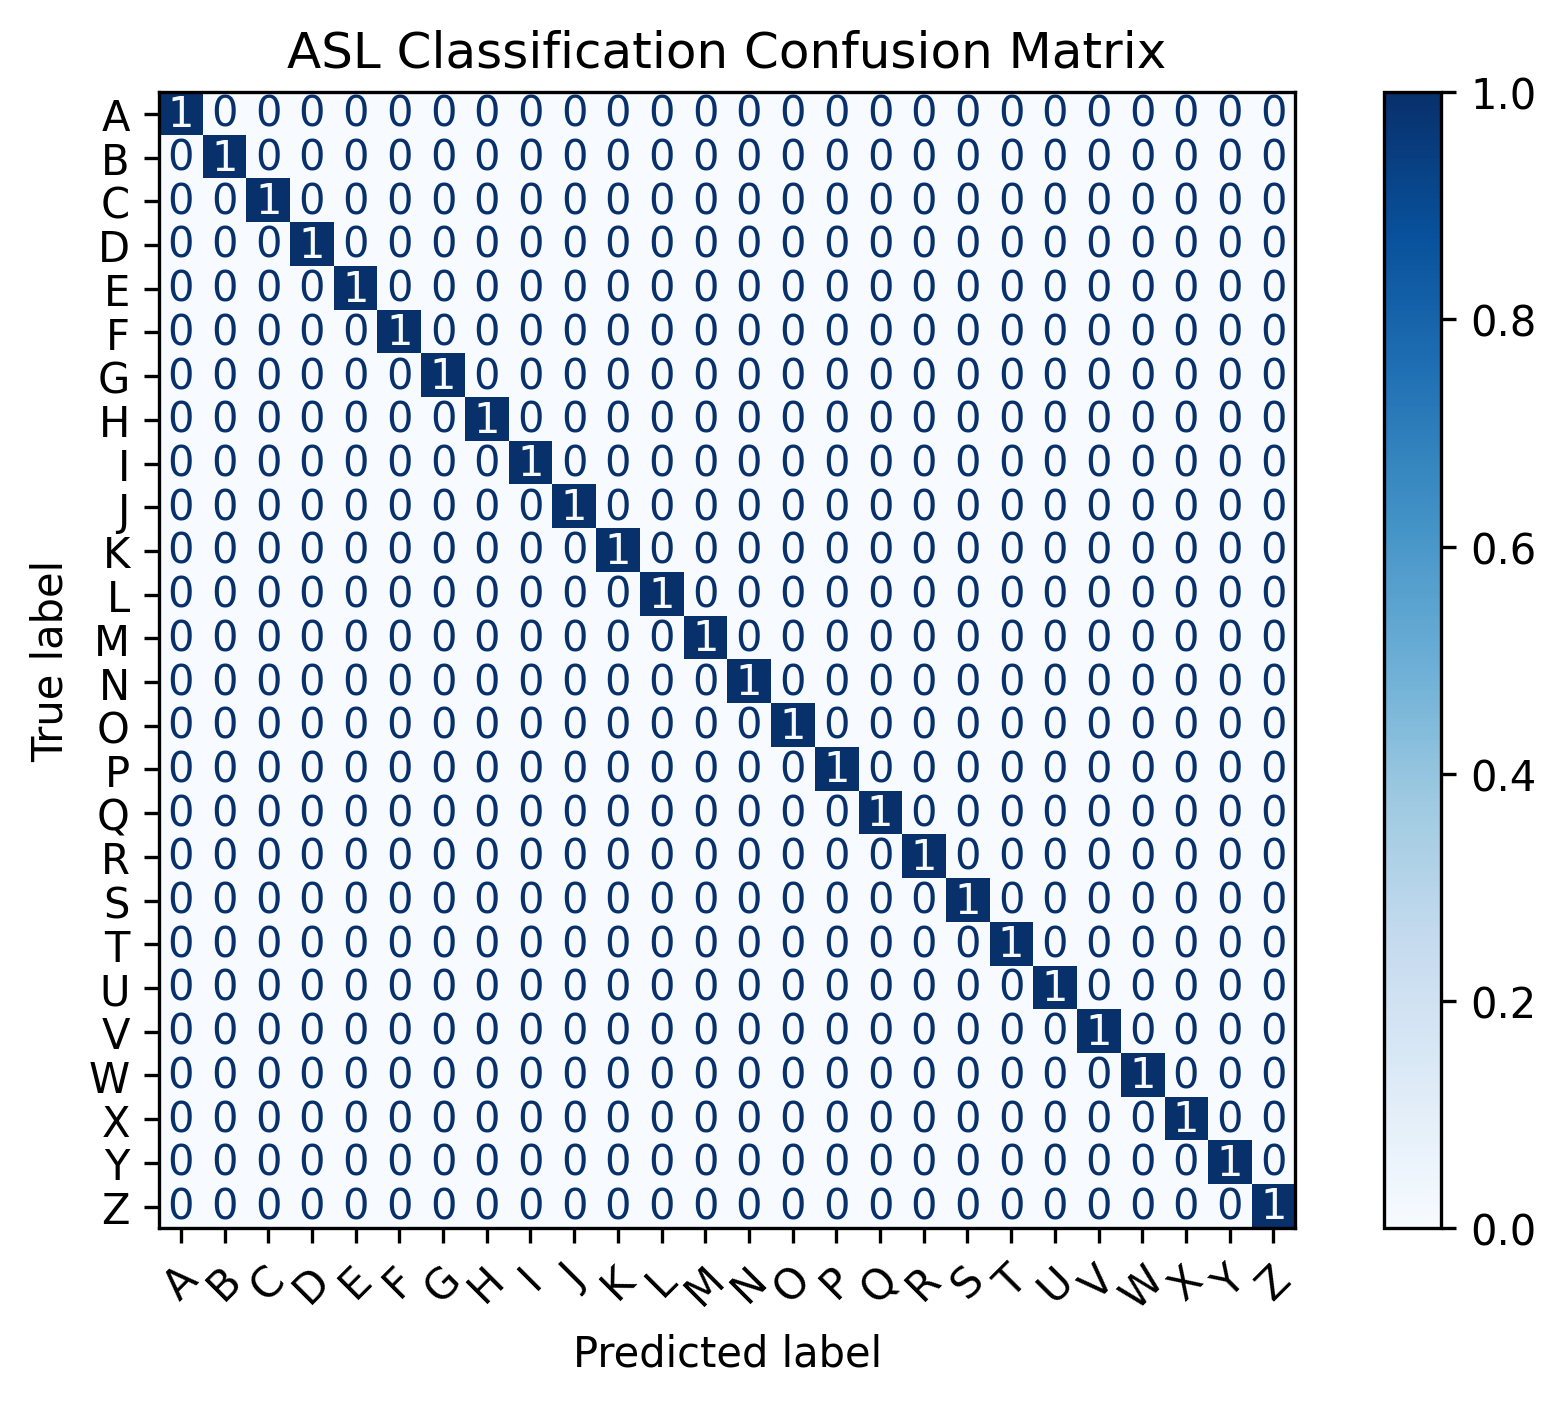
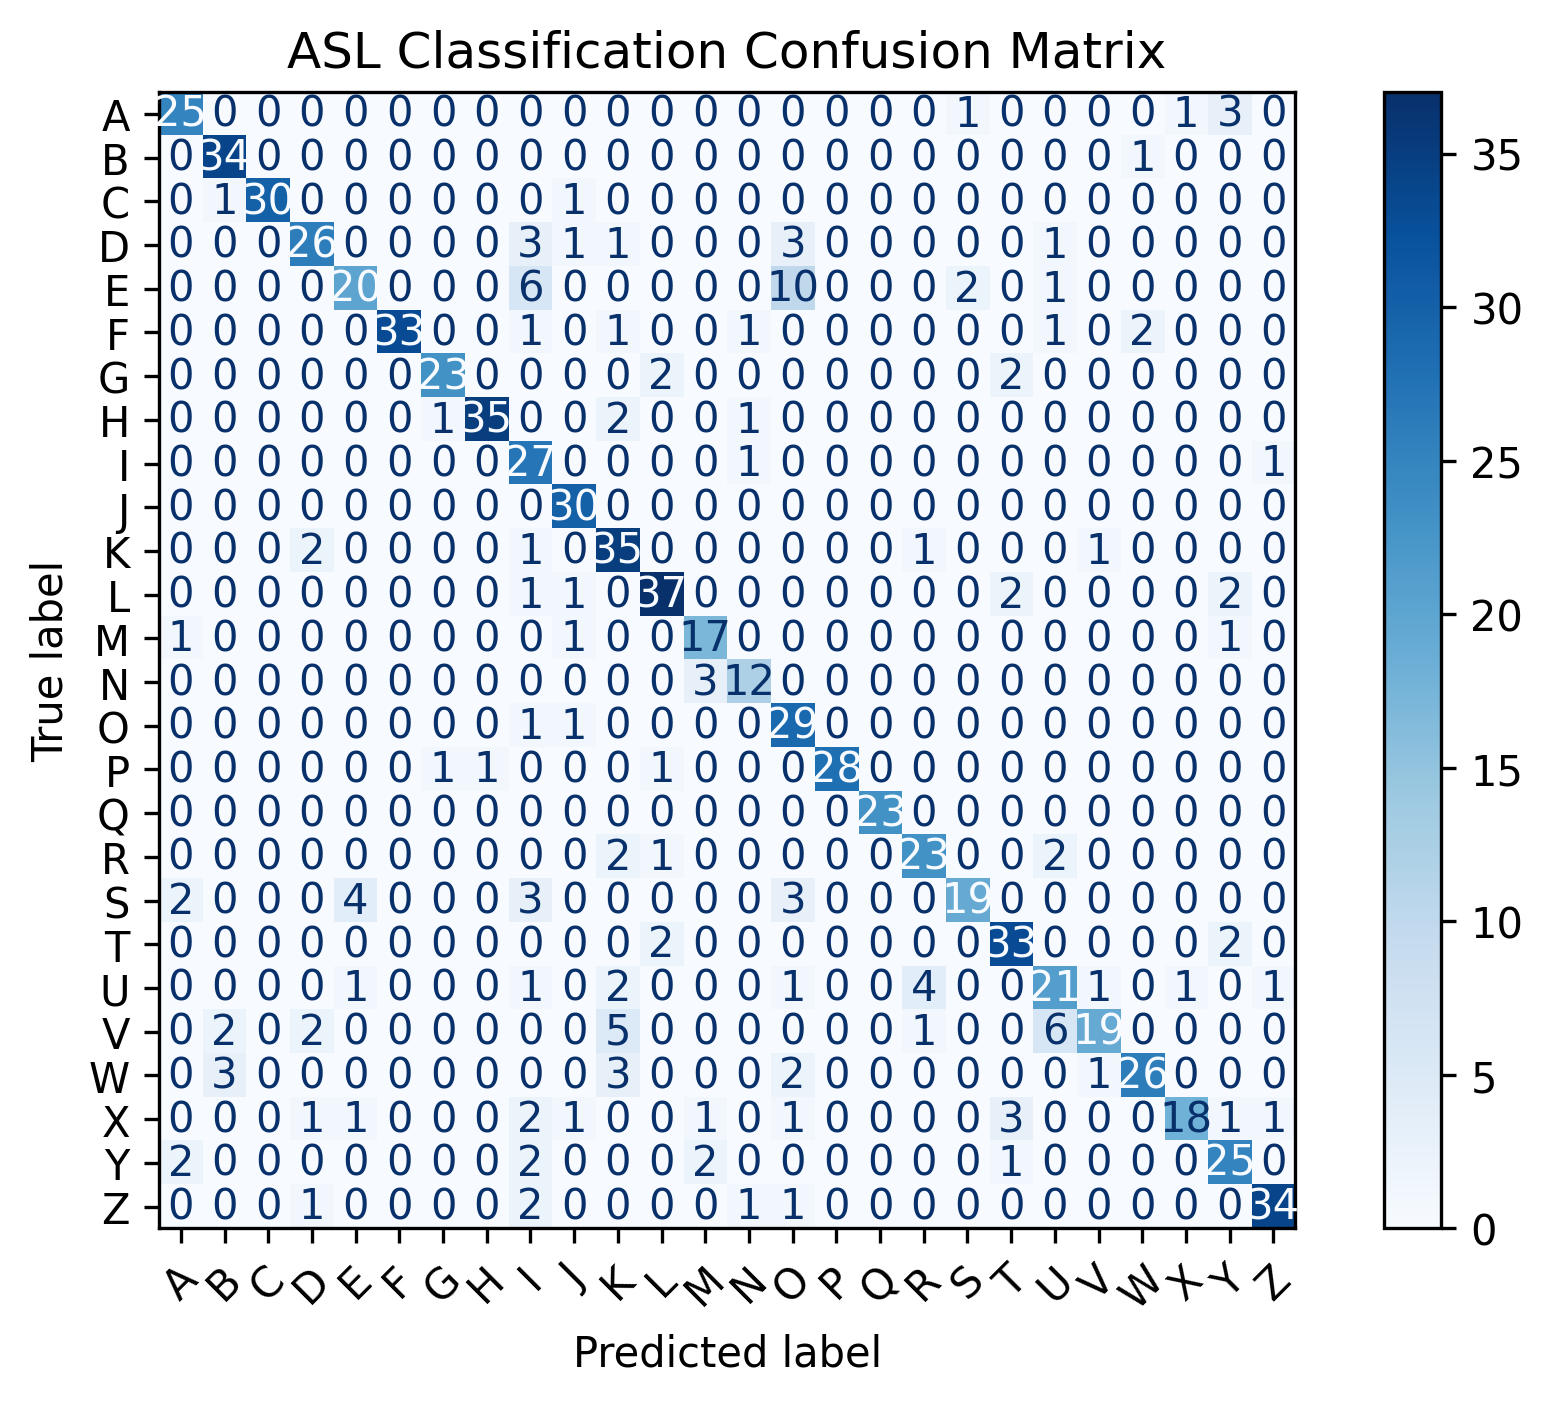
Added some files to create test sets and for the testing of model + new confusion matrix

Changed region(s): [[0.0618, 0.0, 0.8345, 0.9794], [0.8654, 0.0612, 0.9891, 0.8875], [0.9272, 0.8569, 0.9891, 0.8875]]

diff --git a/Backend/scripts/_test_from_data.py b/Backend/scripts/_test_from_data.py
@@ -8,19 +8,17 @@ import matplotlib.pyplot as plt
 
 LABELS_FULL = [
     "A", "B", "C", "D", "E", "F", "G", "H", "I", "J", "K", "L", "M", 
-    "N", "O", "P", "Q", "R", "S", "T", "U", "V", "W", "X", "Y", "Z"
+    "N", "O", "P", "Q", "R", "S", "T", "U", "V", "W", "X", "Y", "Z",
+    "space", "del", "nothing"
 ]
 
-# Initialize components
 detector = HandDetector(maxHands=1)
 classifier = Classifier("./backend/model/asl_model_augmented_1.keras") 
 
-# Test folder configuration
-test_folder = "E:/DataSets/dataset 2 ASL/asl_alphabet_test"
+test_folder = "E:/DataSets/dataset 2 ASL/asl_alphabet_train/TEST 2"
 offset = 25
 img_size = 200
 
-# Storage for metrics
 true_labels = []
 predicted_labels = []
 failed_images = []
@@ -28,7 +26,7 @@ failed_images = []
 def get_true_label(filename):
     return filename.split('_')[0].upper()
 
-# Process test images
+# Process test images from the directory
 for filename in os.listdir(test_folder):
     if not filename.lower().endswith(('.png', '.jpg', '.jpeg', '.bmp', '.gif')):
         continue
@@ -51,7 +49,6 @@ for filename in os.listdir(test_folder):
             hand = hands[0]
             x, y, w, h = hand['bbox']
             
-            # Safe cropping
             y1 = max(0, y - offset)
             y2 = min(img.shape[0], y + h + offset)
             x1 = max(0, x - offset)
@@ -65,7 +62,6 @@ for filename in os.listdir(test_folder):
                 prediction = classifier.model.predict(np.expand_dims(keypoints, axis=0), verbose=0)[0]
                 predicted_index = np.argmax(prediction)
                 
-                # Store for metrics
                 true_labels.append(LABELS_FULL.index(true_label))
                 predicted_labels.append(predicted_index)
         else:
@@ -73,6 +69,7 @@ for filename in os.listdir(test_folder):
     except Exception as e:
         print(f"Error processing {filename}: {str(e)}")
         failed_images.append(filename)
+
 
 # Performance Metrics
 if len(true_labels) == 0:

diff --git a/Backend/scripts/_create_test_set.py b/Backend/scripts/_create_test_set.py
@@ -1,0 +1,45 @@
+import os
+import random
+import shutil
+from pathlib import Path
+
+def select_test_images(main_folder_path, output_folder='TEST 2', samples_per_class=50):
+    classes = [
+        "A", "B", "C", "D", "E", "F", "G", "H", "I", "J", "K", "L", "M",
+        "N", "O", "P", "Q", "R", "S", "T", "U", "V", "W", "X", "Y", "Z",
+        "space", "del" 
+    ]
+    
+    # Create output folder if it doesn't exist
+    output_path = Path(main_folder_path).parent / output_folder
+    output_path.mkdir(exist_ok=True)
+    
+    # Process each class folder
+    for class_name in classes:
+        class_path = Path(main_folder_path) / class_name
+        
+        if not class_path.exists():
+            print(f"Warning: Folder '{class_name}' not found in main directory")
+            continue
+            
+        image_files = [f for f in class_path.iterdir() if f.is_file()]
+        
+        if len(image_files) < samples_per_class:
+            print(f"Warning: Not enough images in '{class_name}' folder (has {len(image_files)}, needs {samples_per_class})")
+            continue
+            
+        selected_images = random.sample(image_files, samples_per_class)
+        
+        for i, image_path in enumerate(selected_images, start=1):
+            new_name = f"{class_name}_{i}{image_path.suffix}"
+            shutil.copy2(image_path, output_path / new_name)
+    
+    print(f"Successfully copied {samples_per_class} images from each class to '{output_path}'")
+
+if __name__ == "__main__":
+    main_folder = r"E:/DataSets/dataset 2 ASL/asl_alphabet_train/asl_alphabet_train"
+    
+    if not os.path.exists(main_folder):
+        print(f"Error: The specified path does not exist: {main_folder}")
+    else:
+        select_test_images(main_folder)
